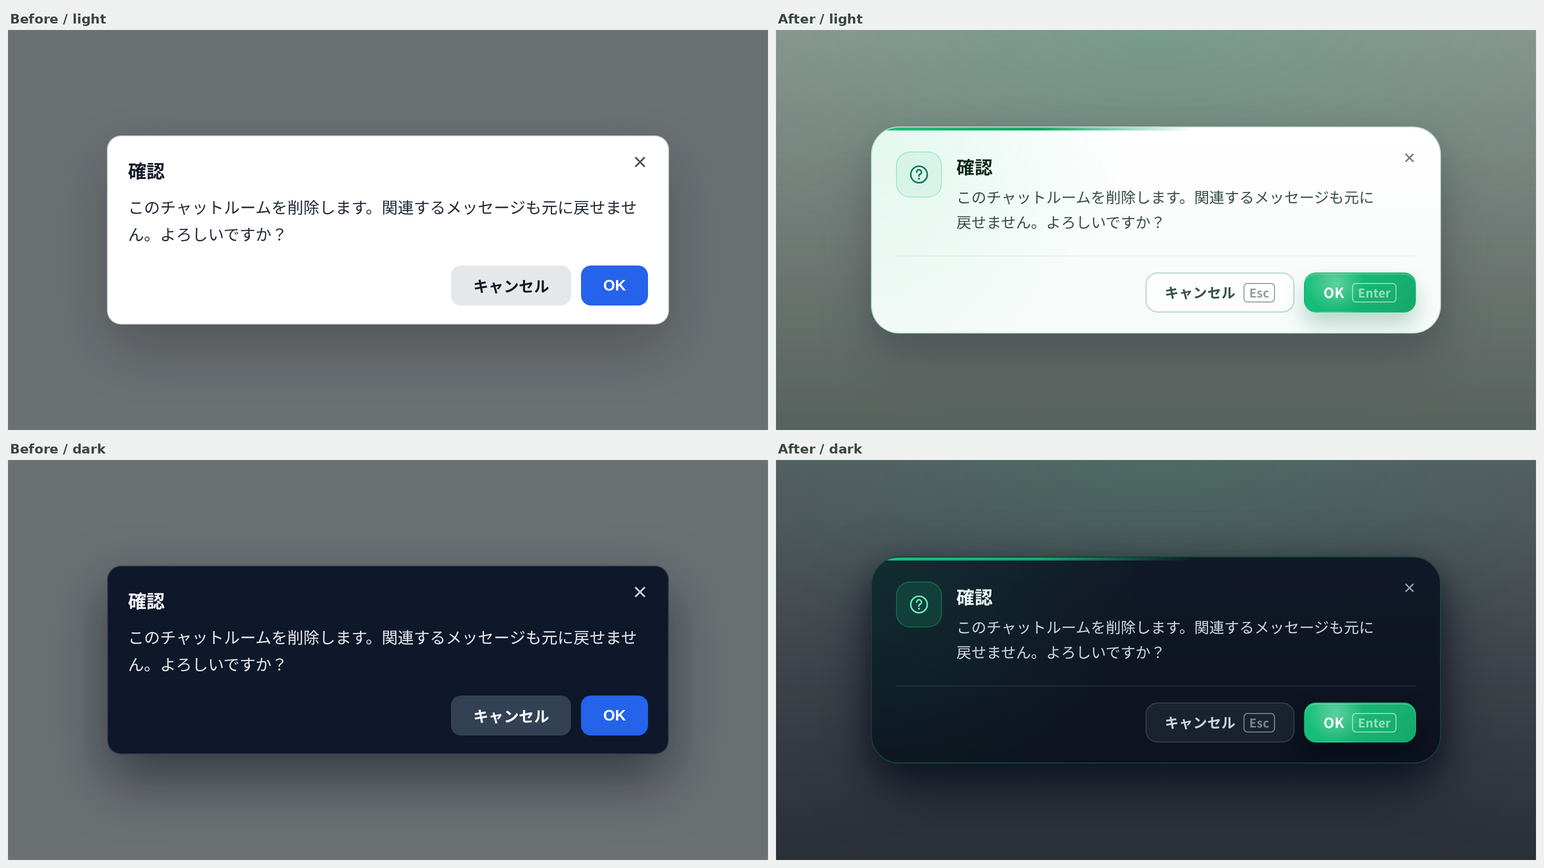
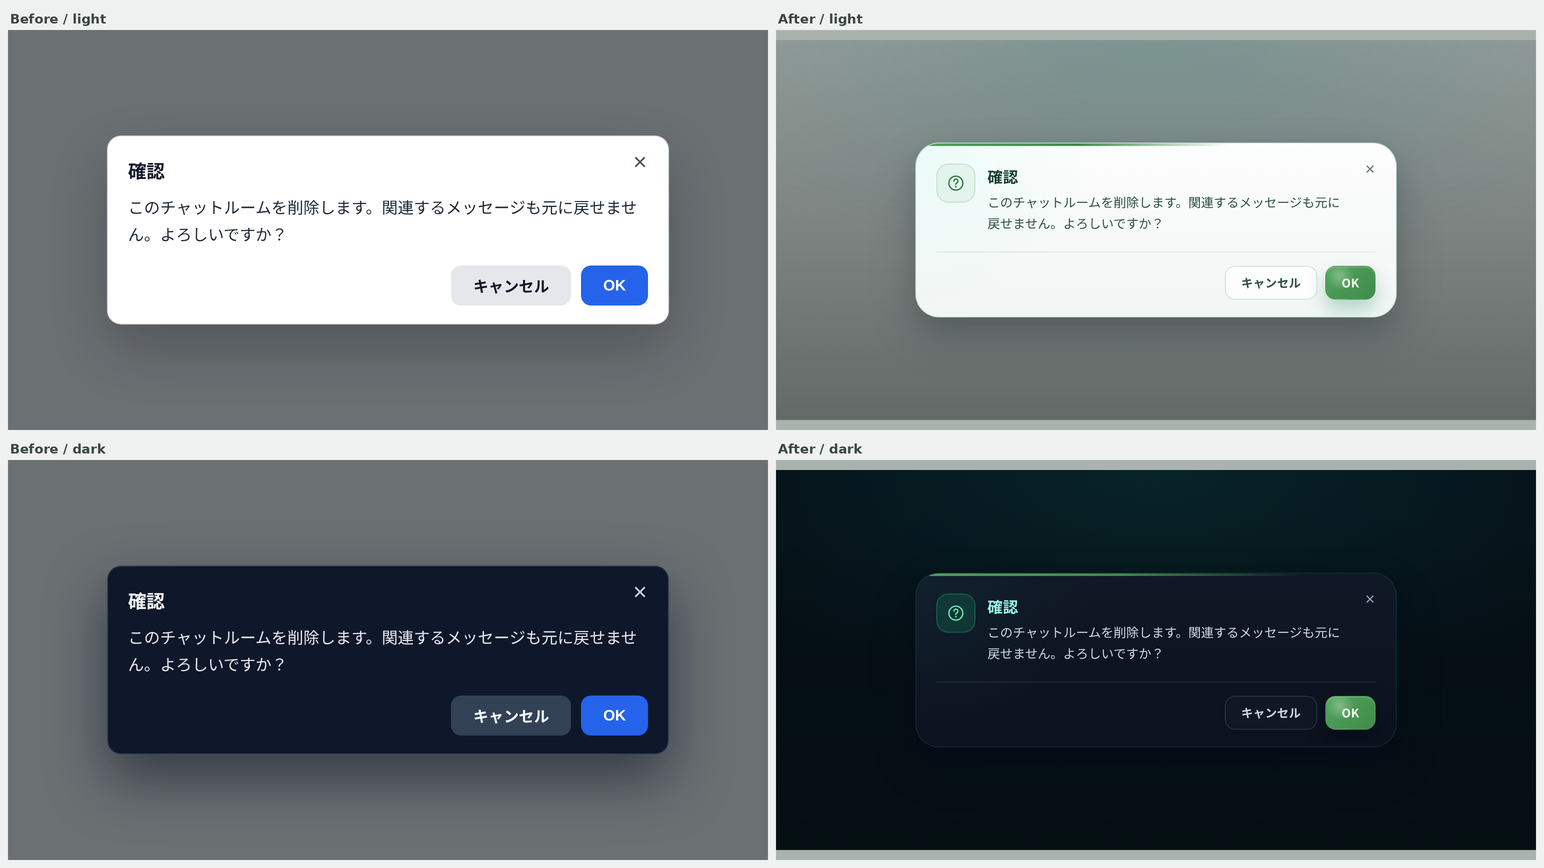
Drop the Enter/Esc keyboard-hint badges from dialog buttons
The hint chips read as visual noise next to the button labels; drop the
markup, its CSS, and the related test assertions. The keyboard shortcuts
themselves are unchanged.

Claude-Session: https://claude.ai/code/session_01YGbUPYFWoNbzx4fteZPQ6o

diff --git a/frontend/public/static/css/components/alert_modal.css b/frontend/public/static/css/components/alert_modal.css
@@ -331,24 +331,6 @@
   box-shadow: var(--shadow-focus-strong, 0 0 0 4px rgba(25, 195, 125, 0.18));
 }
 
-/* Keyboard affordance mirroring the Enter / Escape shortcuts. */
-.cc-alert-modal__hint {
-  display: inline-flex;
-  align-items: center;
-  height: 1.1rem;
-  padding: 0 0.3rem;
-  border: 1px solid currentColor;
-  border-radius: var(--radius-xs, 4px);
-  font-size: var(--text-2xs, 0.75rem);
-  font-weight: 600;
-  line-height: 1;
-  opacity: 0.55;
-}
-
-.cc-alert-modal__button:hover .cc-alert-modal__hint {
-  opacity: 0.8;
-}
-
 /* ---------- alert variant ---------- */
 
 .cc-alert-modal:not(.cc-alert-modal--confirm) .cc-alert-modal__actions {
@@ -435,10 +417,6 @@ body.memo-page .cc-alert-modal {
 
   .cc-alert-modal__button {
     width: 100%;
-  }
-
-  .cc-alert-modal__hint {
-    display: none;
   }
 }
 

diff --git a/frontend/scripts/core/alert_modal.ts b/frontend/scripts/core/alert_modal.ts
@@ -75,7 +75,7 @@ class GlobalAlertModal {
       closeLabel: english ? "Close" : "閉じる",
       title: english ? "Notice" : "お知らせ",
       overlayAttribute: "data-cc-alert-close",
-      actionsMarkup: buildButtonMarkup({ label: "OK", hint: "Enter" })
+      actionsMarkup: buildButtonMarkup({ label: "OK" })
     });
     document.body.appendChild(root);
     return root;
@@ -239,13 +239,11 @@ class GlobalConfirmModal {
       actionsMarkup: [
         buildButtonMarkup({
           label: english ? "Cancel" : "キャンセル",
-          hint: "Esc",
           secondary: true,
           attributes: 'data-cc-confirm-cancel="true"'
         }),
         buildButtonMarkup({
           label: "OK",
-          hint: "Enter",
           attributes: 'data-cc-confirm-ok="true"'
         })
       ].join("")

diff --git a/frontend/scripts/core/alert_modal_view.ts b/frontend/scripts/core/alert_modal_view.ts
@@ -63,18 +63,12 @@ function buildDialogMarkup({
   `;
 }
 
-function buildButtonMarkup(options: {
-  label: string;
-  hint: string;
-  secondary?: boolean;
-  attributes?: string;
-}) {
+function buildButtonMarkup(options: { label: string; secondary?: boolean; attributes?: string }) {
   const modifier = options.secondary ? " cc-alert-modal__button--secondary" : "";
   const attributes = options.attributes ? ` ${options.attributes}` : "";
   return `
     <button type="button" class="cc-alert-modal__button${modifier}"${attributes}>
       <span class="cc-alert-modal__label">${options.label}</span>
-      <span class="cc-alert-modal__hint" aria-hidden="true">${options.hint}</span>
     </button>
   `;
 }

diff --git a/frontend/tests/alert_modal.component.test.tsx b/frontend/tests/alert_modal.component.test.tsx
@@ -46,9 +46,7 @@ describe("global alert & confirm modal", () => {
     const cancel = button(CONFIRM_ROOT, 'data-cc-confirm-cancel="true"');
     const ok = button(CONFIRM_ROOT, 'data-cc-confirm-ok="true"');
     expect(cancel.querySelector(".cc-alert-modal__label")?.textContent).toBe("キャンセル");
-    expect(cancel.querySelector(".cc-alert-modal__hint")?.textContent).toBe("Esc");
     expect(ok.querySelector(".cc-alert-modal__label")?.textContent).toBe("OK");
-    expect(ok.querySelector(".cc-alert-modal__hint")?.textContent).toBe("Enter");
   });
 
 
